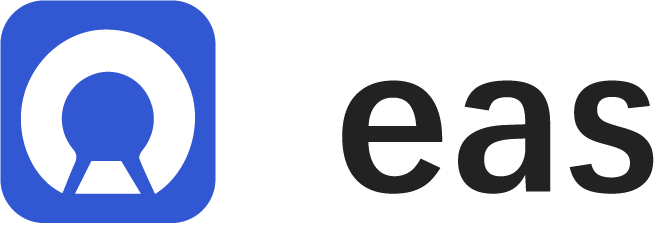
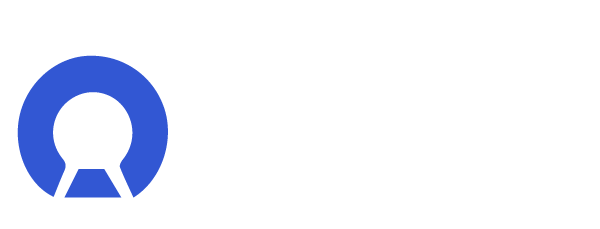
修改

diff --git a/pc/components/modules/layout/baseLayout/Portal.js b/pc/components/modules/layout/baseLayout/Portal.js
@@ -11,6 +11,7 @@ import {getUser} from 'tiklab-core-ui';
 import {verifyUserHoc, Profile, WorkAppConfig} from 'tiklab-eam-ui';
 import easLogo from '../../assets/eas.png'
 import {connect} from 'tiklab-plugin-ui/es/_utils'
+// import WorkAppConfig from '../../../../src/work-app-config'
 
 import Notification from "../../../../src/notification";
 import PortalMenu from '../../../../src/portal-menu'
@@ -90,44 +91,45 @@ const Portal = props => {
                                         onClick={
                                             () => changeCurrentLink({to:'/setting',})
                                         }
+                                        style={{ color: "var(--tiklab-white)"}}
                                     />
                                  </span>
                             </div>
                         </Tooltip>
 
                         <div className={'tiklab_portal_block_item'}>
-                            <Notification/>
+                            <Notification />
                         </div>
 
                         <PortalMenu
                             tooltip={'帮助与支持'}
                             visibility={helpVisibility}
-                            Icon={<QuestionCircleOutlined style={{fontSize:'var(--tiklab-icon-size-22)'}}/>}
+                            Icon={<QuestionCircleOutlined style={{fontSize:'var(--tiklab-icon-size-22)', color: "var(--tiklab-white)"}}/>}
                             width={240}
                         >
                             <>
                                 <div className={'layout_header_right_portal_item'} >
                                     <Space>
-                                        <SnippetsOutlined style={{fontSize:'var(--tiklab-icon-size-16)'}}/>
+                                        <SnippetsOutlined style={{fontSize:'var(--tiklab-icon-size-16)', color: "var(--tiklab-white)"}}/>
                                         文档
                                     </Space>
 
                                 </div>
                                 <div className={'layout_header_right_portal_item'} >
                                     <Space>
-                                        <GlobalOutlined style={{fontSize:'var(--tiklab-icon-size-16)'}}/>
+                                        <GlobalOutlined style={{fontSize:'var(--tiklab-icon-size-16)', color: "var(--tiklab-white)"}}/>
                                         社区支持
                                     </Space>
                                 </div>
                                 <div className={'layout_header_right_portal_item'} >
                                     <Space>
-                                        <CustomerServiceOutlined style={{fontSize:'var(--tiklab-icon-size-16)'}}/>
+                                        <CustomerServiceOutlined style={{fontSize:'var(--tiklab-icon-size-16)', color: "var(--tiklab-white)"}}/>
                                         在线工单
                                     </Space>
                                 </div>
                                 <div className={'layout_header_right_portal_item'} >
                                     <Space>
-                                        <CommentOutlined style={{fontSize:'var(--tiklab-icon-size-16)'}}/>
+                                        <CommentOutlined style={{fontSize:'var(--tiklab-icon-size-16)', color: "var(--tiklab-white)"}}/>
                                         在线客服
                                     </Space>
                                 </div>
@@ -154,7 +156,7 @@ const Portal = props => {
                                 <Menu mode="vertical">
                                     <Menu.SubMenu
                                         key="sub4"
-                                        title={<div><GlobalOutlined style={{fontSize:'var(--tiklab-icon-size-16)'}}/>切换语言</div>}
+                                        title={<div><GlobalOutlined style={{fontSize:'var(--tiklab-icon-size-16)', color: "var(--tiklab-white)"}}/>切换语言</div>}
                                     >
                                         {
                                             lngData.map(lng => {
@@ -166,13 +168,13 @@ const Portal = props => {
                                 </Menu>
                                 <div className={'layout_header_right_portal_item'} >
                                     <Space>
-                                        <UserOutlined style={{fontSize:'var(--tiklab-icon-size-16)'}}/>
+                                        <UserOutlined style={{fontSize:'var(--tiklab-icon-size-16)', color: "var(--tiklab-white)"}}/>
                                         账户设置
                                     </Space>
                                 </div>
                                 <div className={'layout_header_right_portal_item'} onClick={goLogout}>
                                     <Space>
-                                        <LogoutOutlined style={{fontSize:'var(--tiklab-icon-size-16)'}}/>
+                                        <LogoutOutlined style={{fontSize:'var(--tiklab-icon-size-16)', color: "var(--tiklab-white)"}}/>
                                         退出
                                     </Space>
                                 </div>

diff --git a/pc/src/notification/index.js b/pc/src/notification/index.js
@@ -5,7 +5,7 @@
  * @description index
  */
 import React, {useState, memo, useEffect} from "react";
-import {Badge, Drawer, Select, Tooltip, List, Button, Space, Tag} from "antd";
+import {Badge, Drawer, Select, Tooltip, List, Button, Space, Tag, Empty} from "antd";
 import {Axios, getUser} from "tiklab-core-ui";
 
 import {BellOutlined} from "@ant-design/icons";
@@ -206,7 +206,7 @@ const Notification = memo(({}) => {
     return(
         <>
             <Tooltip title={"通知"} mouseEnterDelay={0.3}>
-                <Badge count={total}><BellOutlined style={{fontSize:"var(--tiklab-icon-size-22)"}} onClick={showDrawer}/></Badge>
+                <Badge count={total}><BellOutlined style={{fontSize:"var(--tiklab-icon-size-22)" ,color: "var(--tiklab-white)"}} onClick={showDrawer}/></Badge>
             </Tooltip>
             <Drawer
                 placement="right"
@@ -234,6 +234,12 @@ const Notification = memo(({}) => {
                     <List
                         loadMore={loadMore}
                         dataSource={messageList}
+                        locale={{
+                            emptyText: <Empty
+
+                                description={<span>暂无消息</span>}
+                            />,
+                        }}
                         renderItem={(item => {
                             let jsonData = {
                                 title:item.messageTemplate.title,

diff --git a/pc/components/modules/layout/baseLayout/layout.scss b/pc/components/modules/layout/baseLayout/layout.scss
@@ -10,22 +10,23 @@
     height: 48px;
     border-bottom: 1px solid var(--tiklab-gray-300);
     padding: 0 24px;
+    background: var(--tiklab-blue);
     &_link {
       height: 100%;
       display: flex;
       align-items: center;
       >span{
         cursor: pointer;
-        color: var(--tiklab-black);
+        color: var(--tiklab-white);
         &:hover{
-          color: var(--tiklab-blue);
+          color: var(--tiklab-white);
         }
       }
     }
     &_link_active {
       position: relative;
       >span{
-        color: var(--blue);
+        color: var(--tiklab-gray-400);
       }
       &:after {
         position: absolute;
@@ -34,7 +35,7 @@
         right: 0;
         content: "";
         height: 3px;
-        background-color: var(--tiklab-blue);
+        background-color: var(--tiklab-gray-400);
         border-top-left-radius: 1px;
         border-top-right-radius: 1px;
       }

diff --git a/pc/src/styles/base.scss b/pc/src/styles/base.scss
@@ -3,12 +3,13 @@
     // 色调
     --tiklab-white: #fff;  // 主色调白
     --tiklab-black: #000;  // 主色调黑
-    --tiklab-blue: #0063FF;  // 主色调蓝
+    --tiklab-blue: #5d70ea;  // 主色调蓝
     --tiklab-gray-200: #ececec;  // border 的边线
-    --tiklab-gray-300: #EDF0F5;  // hover颜色
-    --tiklab-gray-400: #e3e8f0;  // 左侧导航 选中颜色
+    --tiklab-gray-300: #efeeee;  // hover颜色
+    --tiklab-gray-400: #efefef;  // 左侧导航 选中颜色
     --tiklab-gray-500: #999; // 文字次级颜色灰色调
-    --tiklab-gray: #f7f8fa; // 主色调灰 左侧导航
+    --tiklab-gray-600:#f7f7f7; // 内容区域侧边栏色调
+    --tiklab-gray: #fafafa; // 主色调灰 左侧导航
     
     // 边距
     --tiklab-padding: 20px; //页面边距

diff --git a/pc/components/modules/setting/contains/index.js b/pc/components/modules/setting/contains/index.js
@@ -85,14 +85,15 @@ const SettingLayout = ({history, route, systemRoleStore}) => {
         const {location} = history;
         const pathname = location.pathname;
         const index = links.findIndex(item => pathname=== item.router);
-        const selected = links[index].key;
+        if (index > -1) {
+            const selected = links[index].key;
+            const openKey = selected.slice("-")[0];
+            setMenuKeys({
+                selectedKeys:[selected],
+                openKeys:[openKey]
+            })
+        }
 
-        const openKey = selected.slice("-")[0];
-
-        setMenuKeys({
-            selectedKeys:[selected],
-            openKeys:[openKey]
-        })
     },[])
 
     const onSelectMenu = e => {

diff --git a/pc/components/utils/staticConfig.js b/pc/components/utils/staticConfig.js
@@ -40,7 +40,7 @@ const selectionSettingMenuData = () => {
                 {
                     id:'3-1',
                     key:'3-1',
-                    title: '消息配置',
+                    title: '消息发送方式',
                     icon :<AppstoreOutlined style={{fontSize:'var(--tiklab-icon-size-16)'}}/>,
                 },
                 {
@@ -158,7 +158,7 @@ const selectionSettingMenuData = () => {
             children: [
                 {
                     id:'3-1',
-                    title: '消息配置',
+                    title: '消息发送方式',
                     icon :<AppstoreOutlined style={{fontSize:'var(--tiklab-icon-size-16)'}}/>,
                 },
                 {

diff --git a/pc/components/modules/setting/base/privilege/baseProjectRole.js b/pc/components/modules/setting/base/privilege/baseProjectRole.js
@@ -6,12 +6,12 @@
  * @description baseSystemFeature
  */
 import React from 'react';
-import {ProjectRoleList} from "tiklab-privilege-ui";
+import {ProjectRoleList, DomainRoleList} from "tiklab-privilege-ui";
 
 const BaseProjectRole = () => {
 
     return(
-        <ProjectRoleList isBase={true}/>
+        <DomainRoleList isBase={false} domainId={'1111'}/>
     )
 }
 
